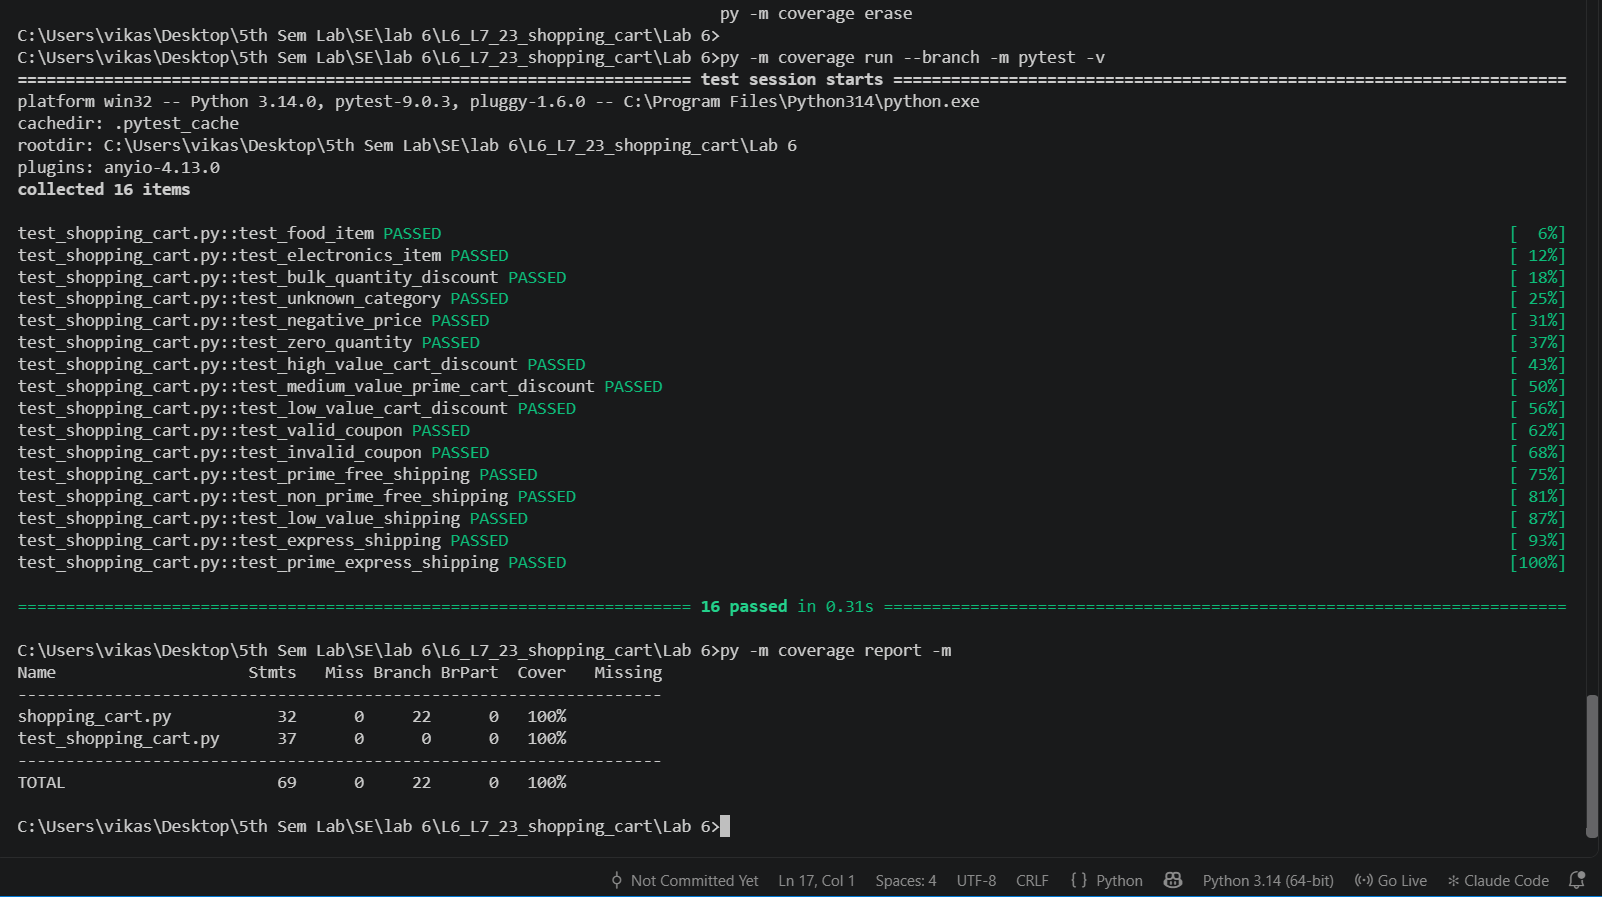
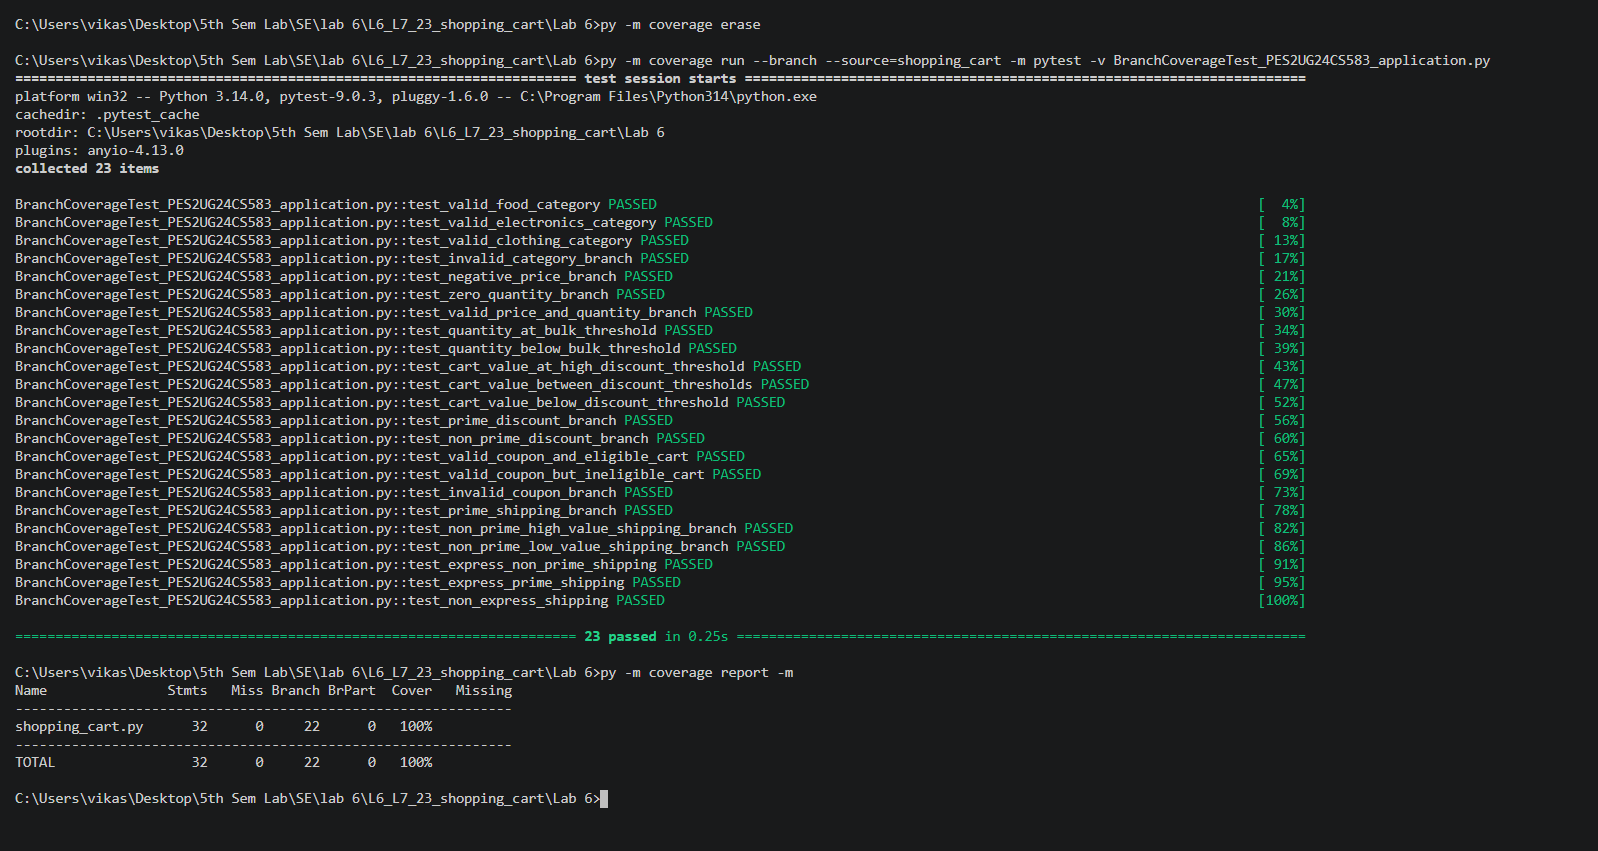
Add separate code coverage test cases

diff --git a/Lab 6/BranchCoverageTest_PES2UG24CS583_application.py b/Lab 6/BranchCoverageTest_PES2UG24CS583_application.py
@@ -1,0 +1,107 @@
+import pytest
+from shopping_cart import item_total, cart_discount, shipping_fee
+
+
+# Branch coverage test cases
+
+# item_total(): category validation branches
+def test_valid_food_category():
+    assert item_total("food", 100, 2) == 210
+
+
+def test_valid_electronics_category():
+    assert item_total("electronics", 20, 2) == 47
+
+
+def test_valid_clothing_category():
+    assert item_total("clothing", 100, 1) == 112
+
+
+def test_invalid_category_branch():
+    with pytest.raises(ValueError, match="unknown category"):
+        item_total("toys", 100, 1)
+
+
+# item_total(): price and quantity validation branches
+def test_negative_price_branch():
+    with pytest.raises(ValueError, match="invalid price or quantity"):
+        item_total("food", -10, 1)
+
+
+def test_zero_quantity_branch():
+    with pytest.raises(ValueError, match="invalid price or quantity"):
+        item_total("food", 100, 0)
+
+
+def test_valid_price_and_quantity_branch():
+    assert item_total("food", 100, 2) == 210
+
+
+# item_total(): bulk discount branches
+def test_quantity_at_bulk_threshold():
+    assert item_total("food", 100, 10) == 945
+
+
+def test_quantity_below_bulk_threshold():
+    assert item_total("food", 100, 2) == 210
+
+
+# cart_discount(): discount tier branches
+def test_cart_value_at_high_discount_threshold():
+    assert cart_discount(5000, False, None) == 500
+
+
+def test_cart_value_between_discount_thresholds():
+    assert cart_discount(2000, False, None) == 200
+
+
+def test_cart_value_below_discount_threshold():
+    assert cart_discount(500, False, None) == 0
+
+
+# cart_discount(): Prime branches
+def test_prime_discount_branch():
+    assert cart_discount(500, True, None) == 100
+
+
+def test_non_prime_discount_branch():
+    assert cart_discount(500, False, None) == 0
+
+
+# cart_discount(): coupon condition branches
+def test_valid_coupon_and_eligible_cart():
+    assert cart_discount(2000, False, "FLAT10") == 400
+
+
+def test_valid_coupon_but_ineligible_cart():
+    assert cart_discount(500, False, "FLAT10") == 0
+
+
+def test_invalid_coupon_branch():
+    assert cart_discount(2000, False, "INVALID") == 200
+
+
+# shipping_fee(): Prime and cart value branches
+def test_prime_shipping_branch():
+    assert shipping_fee(100, True, False) == 0
+
+
+def test_non_prime_high_value_shipping_branch():
+    assert shipping_fee(600, False, False) == 0
+
+
+def test_non_prime_low_value_shipping_branch():
+    assert shipping_fee(100, False, False) == 40
+
+
+# shipping_fee(): express shipping branches
+def test_express_non_prime_shipping():
+    assert shipping_fee(100, False, True) == 140
+
+
+def test_express_prime_shipping():
+    assert shipping_fee(100, True, True) == 50
+
+
+def test_non_express_shipping():
+    assert shipping_fee(100, False, False) == 40

diff --git a/Lab 6/CodeCoverageTest_PES2UG24CS583_application.py b/Lab 6/CodeCoverageTest_PES2UG24CS583_application.py
@@ -1,0 +1,71 @@
+import pytest
+from shopping_cart import item_total, cart_discount, shipping_fee
+
+
+# Code coverage test cases
+
+def test_food_item():
+    assert item_total("food", 100, 2) == 210
+
+
+def test_electronics_item():
+    assert item_total("electronics", 20, 2) == 47
+
+
+def test_bulk_quantity_discount():
+    assert item_total("food", 100, 10) == 945
+
+
+def test_unknown_category():
+    with pytest.raises(ValueError, match="unknown category"):
+        item_total("toys", 100, 1)
+
+
+def test_negative_price():
+    with pytest.raises(ValueError, match="invalid price or quantity"):
+        item_total("food", -10, 1)
+
+
+def test_zero_quantity():
+    with pytest.raises(ValueError, match="invalid price or quantity"):
+        item_total("food", 100, 0)
+
+
+def test_high_value_cart_discount():
+    assert cart_discount(6000, False, None) == 500
+
+
+def test_medium_value_prime_cart_discount():
+    assert cart_discount(2500, True, None) == 300
+
+
+def test_low_value_cart_discount():
+    assert cart_discount(500, False, None) == 0
+
+
+def test_valid_coupon():
+    assert cart_discount(2000, False, "FLAT10") == 400
+
+
+def test_invalid_coupon():
+    assert cart_discount(2000, False, "INVALID") == 200
+
+
+def test_prime_free_shipping():
+    assert shipping_fee(100, True, False) == 0
+
+
+def test_non_prime_free_shipping():
+    assert shipping_fee(600, False, False) == 0
+
+
+def test_low_value_shipping():
+    assert shipping_fee(100, False, False) == 40
+
+
+def test_express_shipping():
+    assert shipping_fee(100, False, True) == 140
+
+
+def test_prime_express_shipping():
+    assert shipping_fee(100, True, True) == 50
